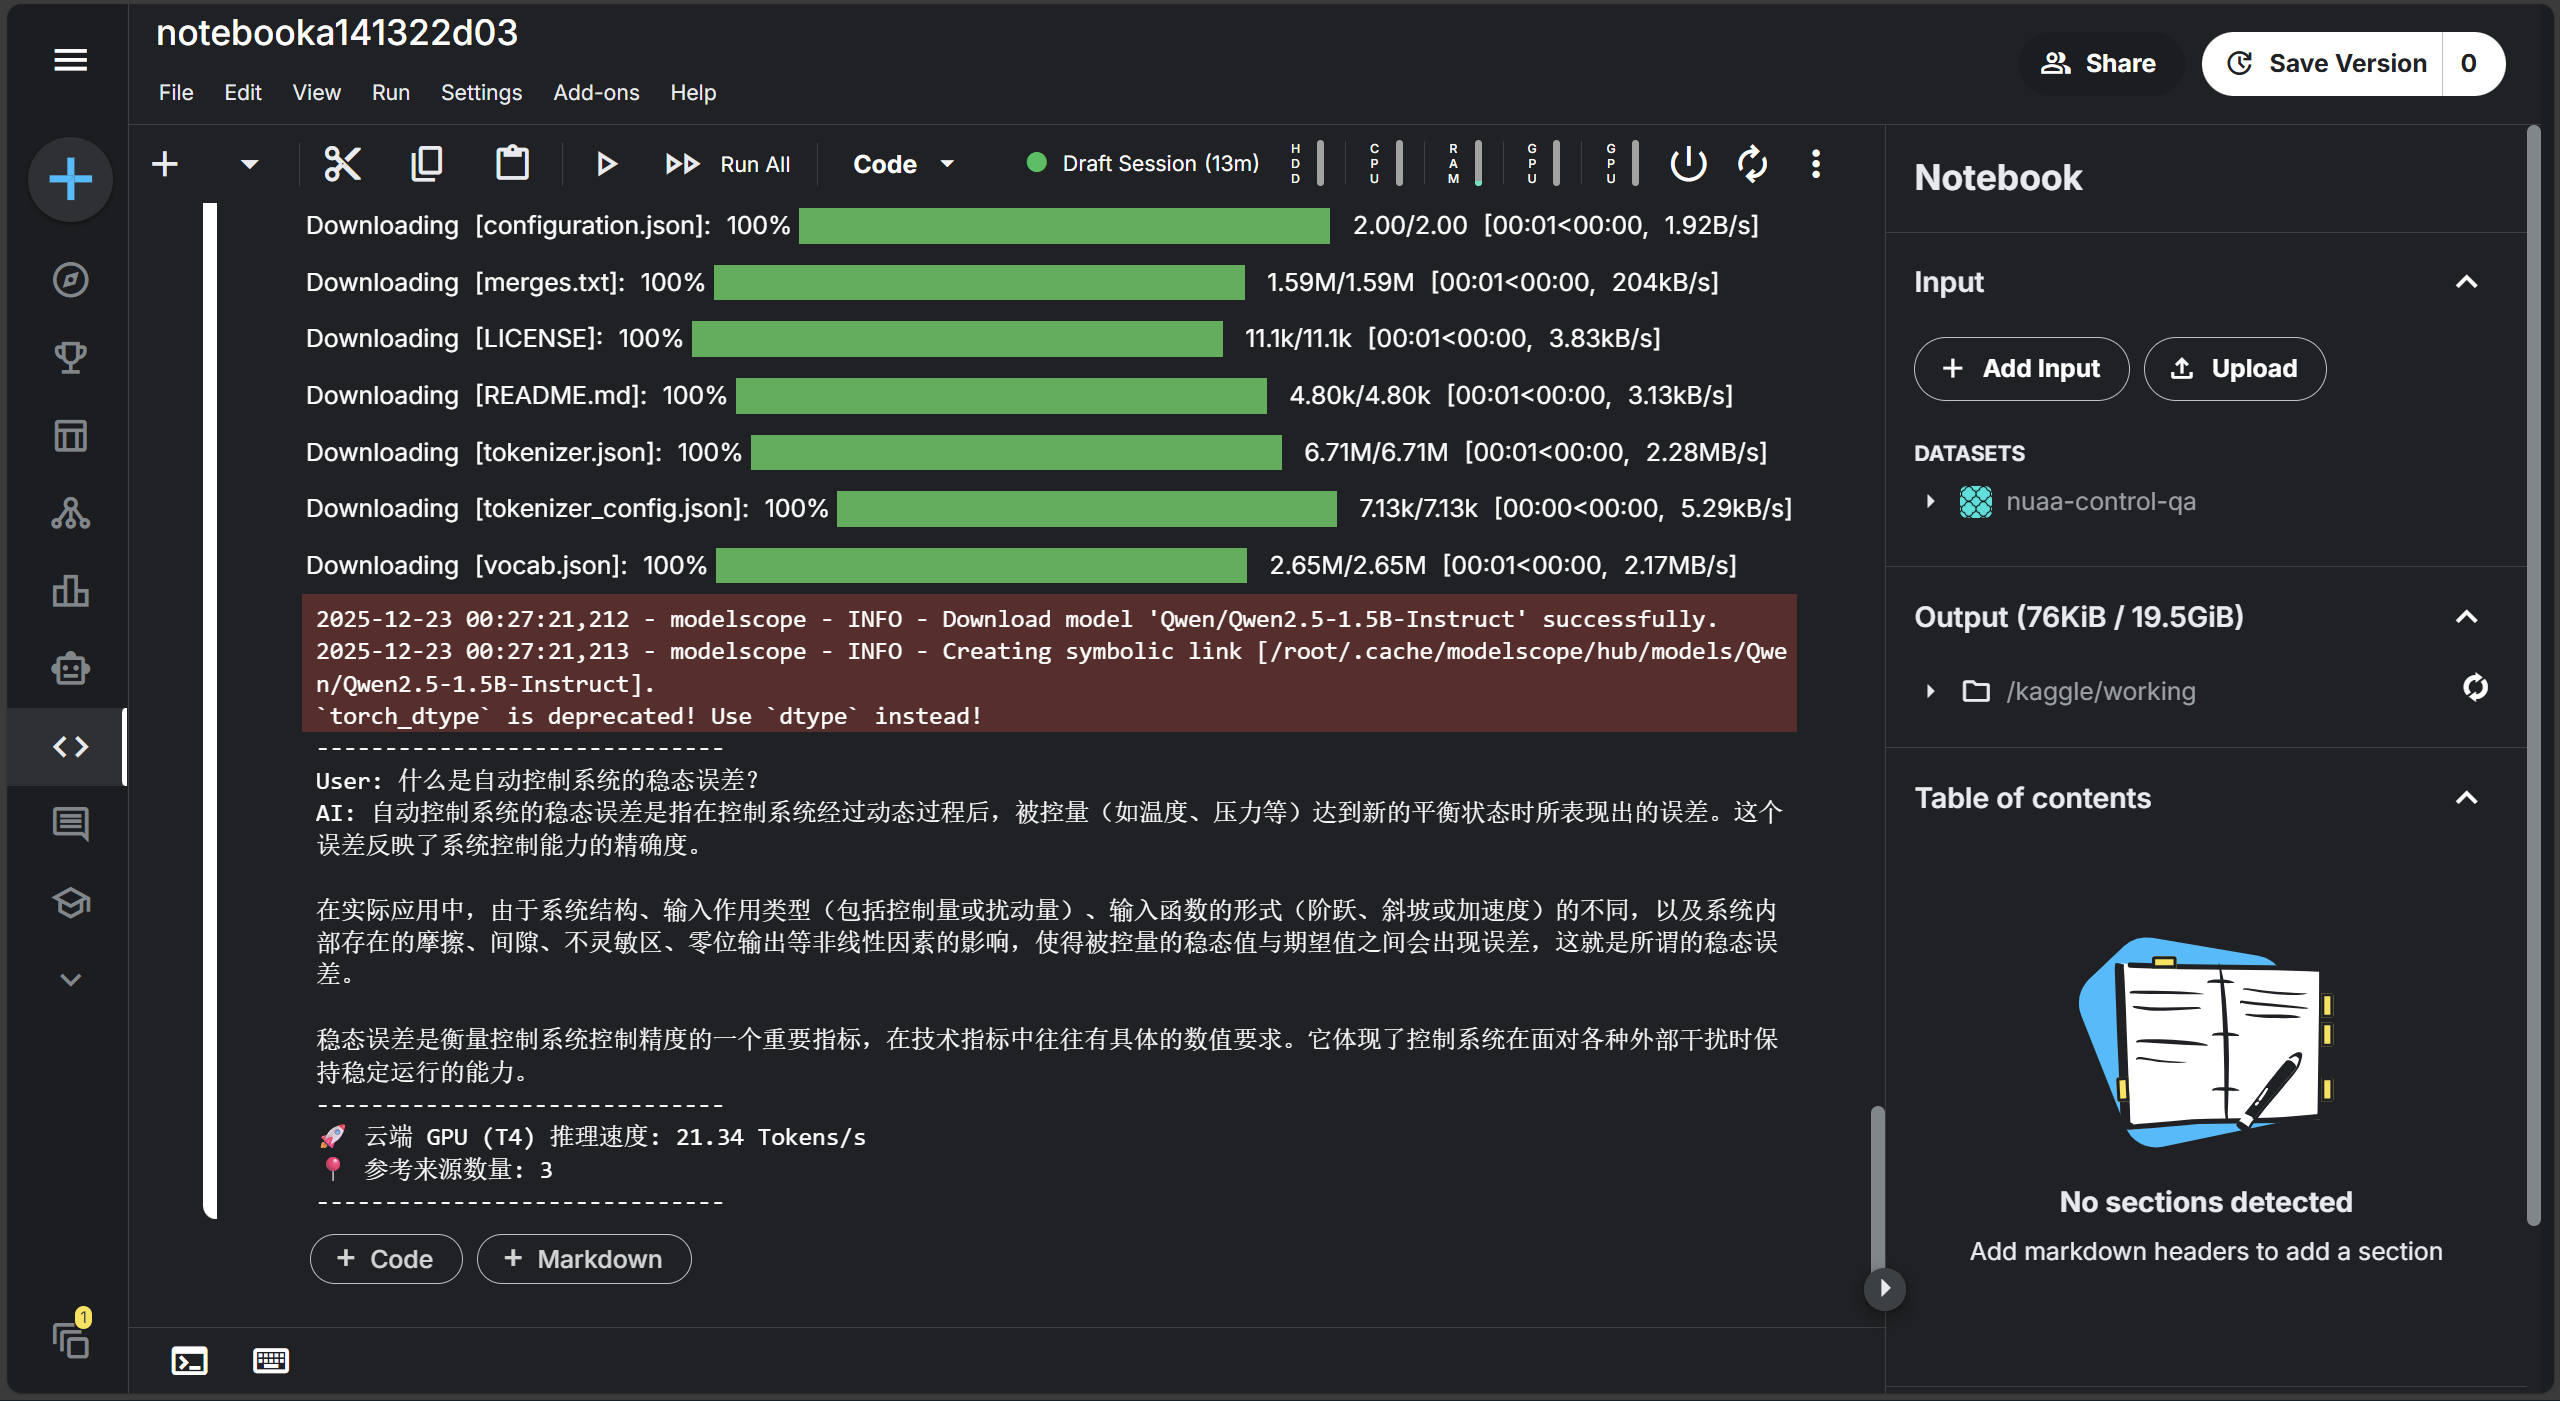
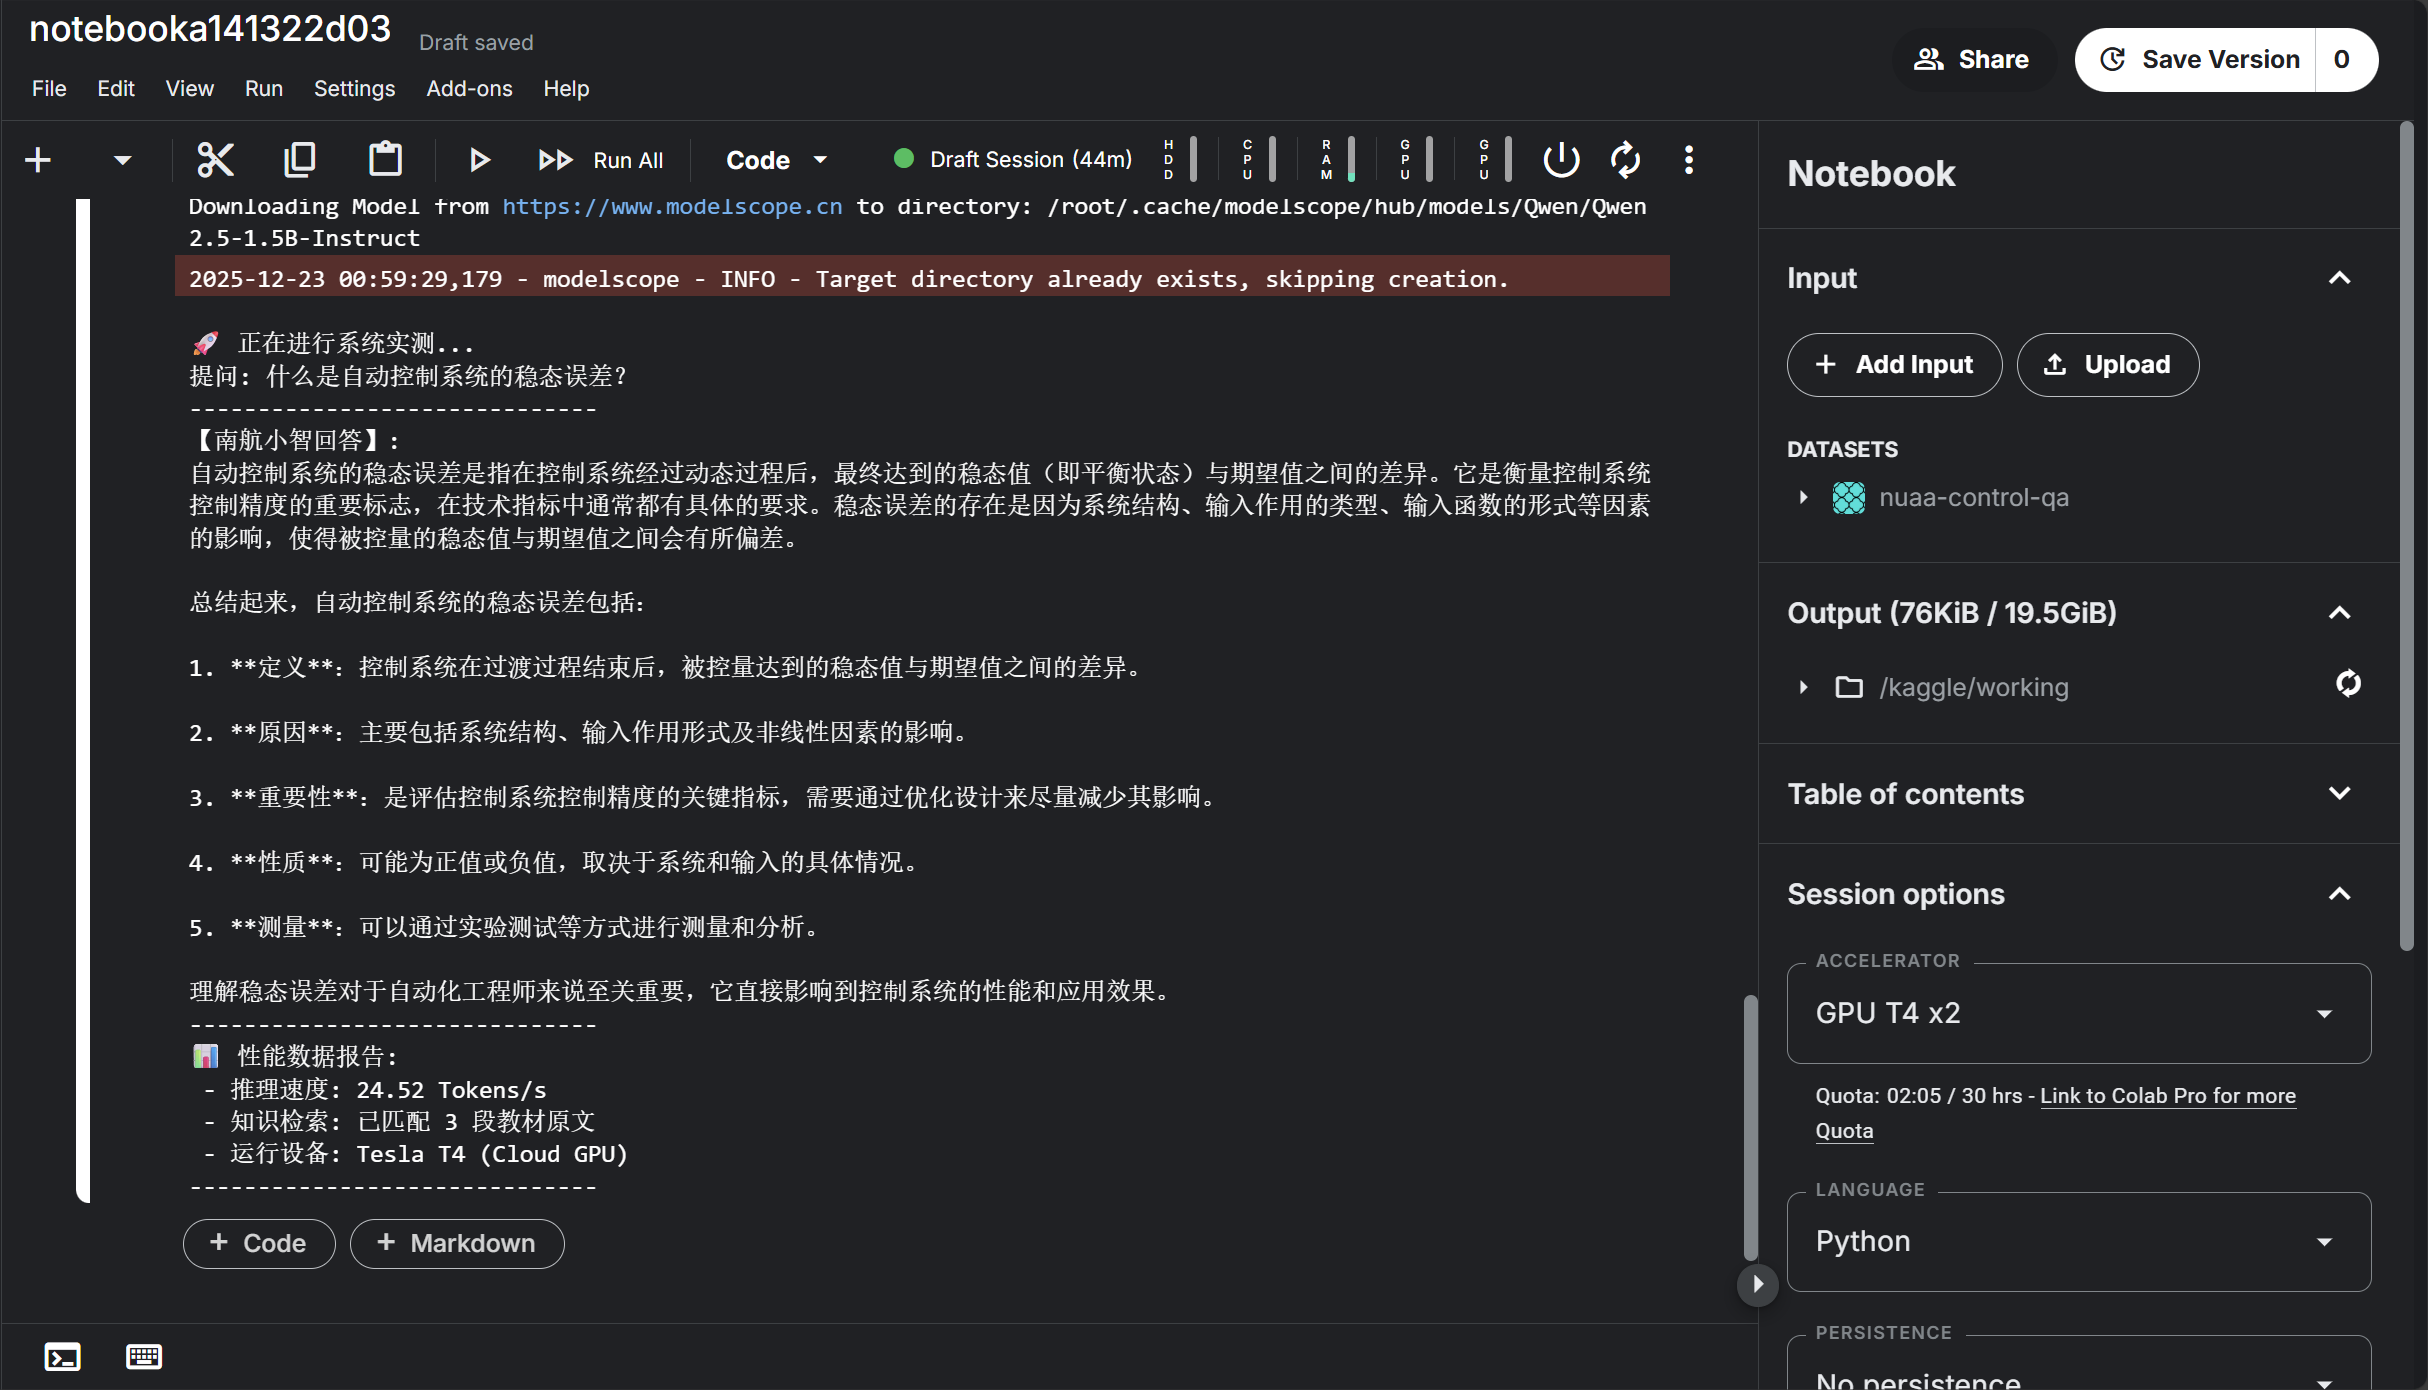
Week2:打通云端RAG链路,实测GPU速度为24.52 tokens/s

diff --git a/step04_rag_cloud.py b/step04_rag_cloud.py
@@ -44,7 +44,7 @@ def rag_chat(query):
     context = "\n".join([doc.page_content for doc in docs])
 
     # 构造 Prompt
-    prompt = f"你是一个南航自动化学院的助教。请根据以下参考资料回答问题。\n参考资料：\n{context}\n问题：{query}"
+    prompt = f"你是一个南航航天学院的助教。请根据以下参考资料回答问题。\n参考资料：\n{context}\n问题：{query}"
     messages = [{"role": "user", "content": prompt}]
     text = tokenizer.apply_chat_template(messages, tokenize=False, add_generation_prompt=True)
     model_inputs = tokenizer([text], return_tensors="pt").to(DEVICE)
